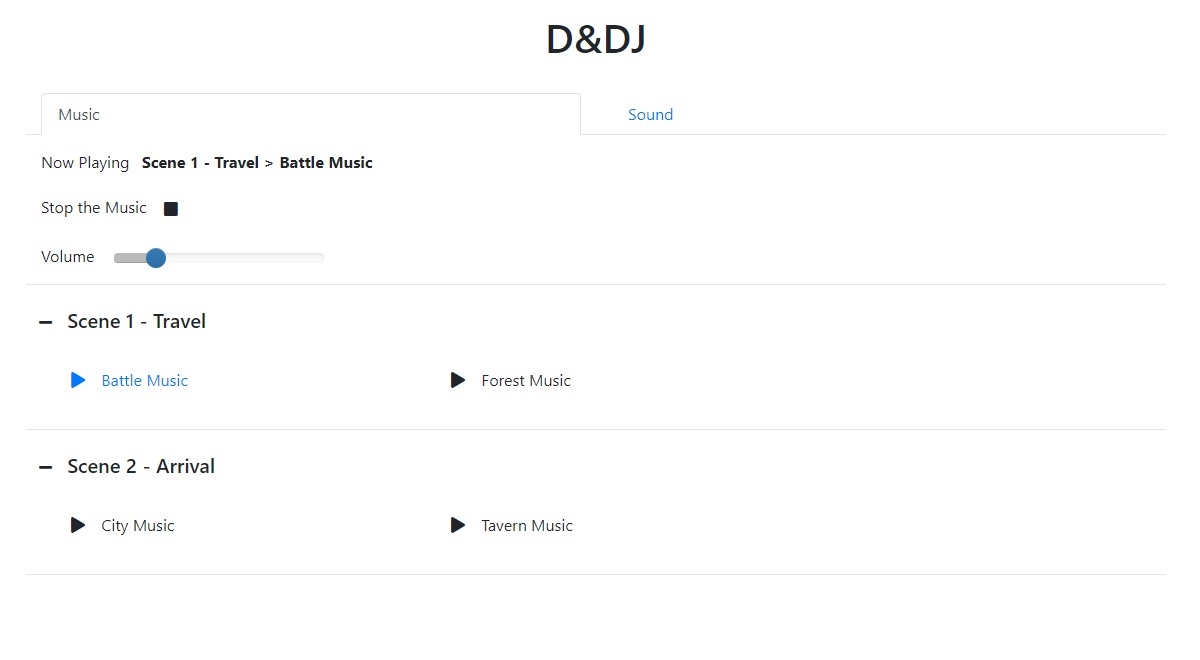
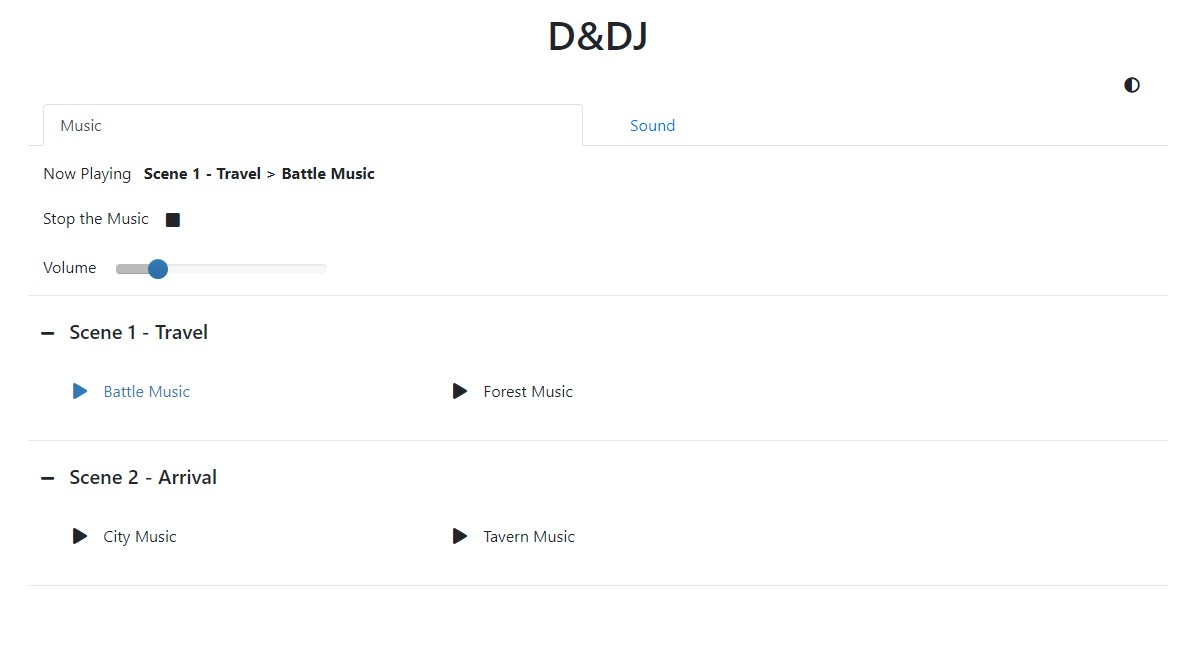
Added a dark mode

diff --git a/README.md b/README.md
@@ -14,7 +14,7 @@ able to play them without much hassle.
   - The web page displays the available music and sounds (as specified in the config)
   - Play music, stop the music, change the volume or play sounds
 
-Desktop View             |  Mobile View
+Desktop View (Light Mode)            |  Mobile (Dark Mode)
 :-------------------------:|:-------------------------:
 ![Desktop View](docs/_static/example_page_desktop.jpg "Desktop View")  |  ![Mobile View](docs/_static/example_page_mobile.jpg "Mobile View")
 
